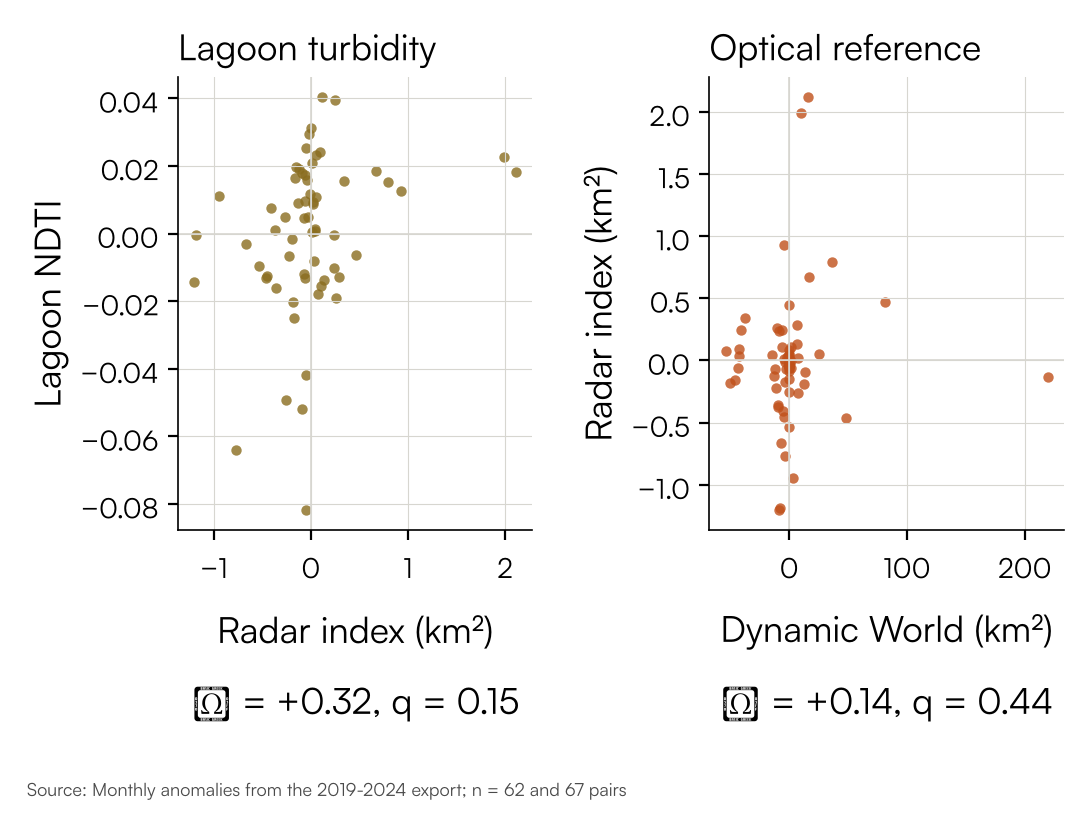
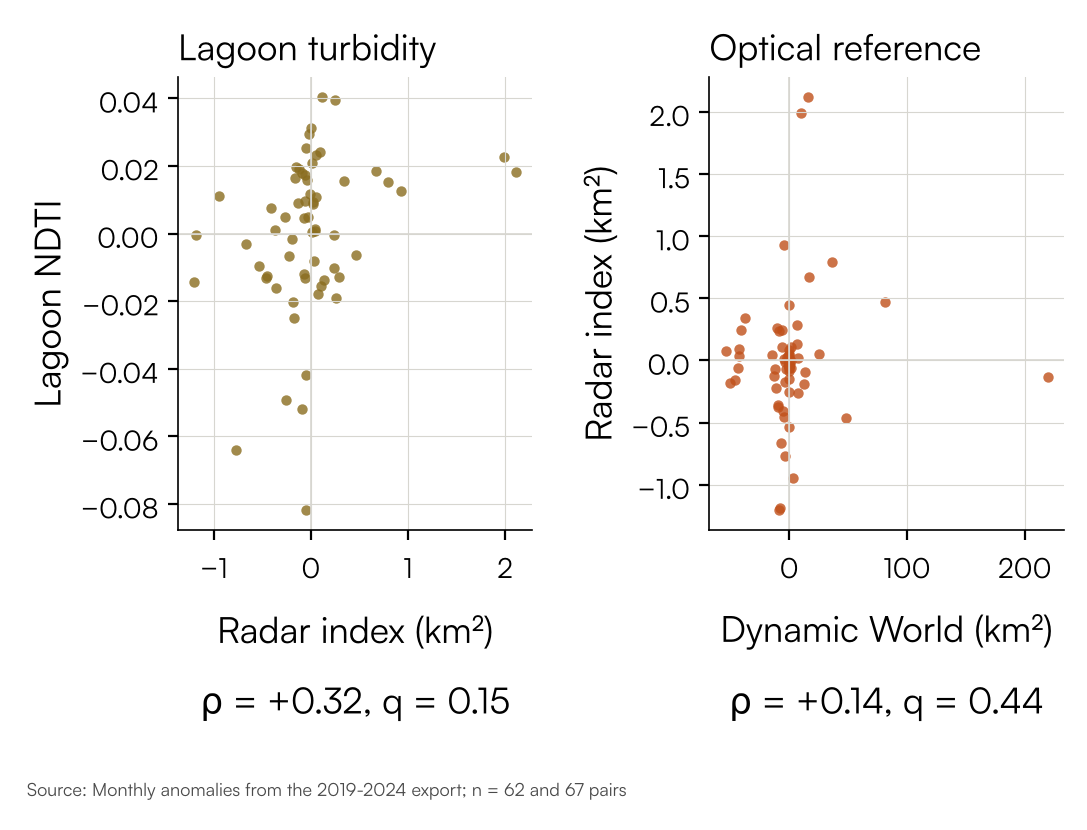
Remove static map figures, label maps by values, add scroll cue
Remove the seasonal and land-cover map figures from the page; the scripts
remain for later. Study maps carry no labels inside the units and no grid;
values sit in panel titles. Renumber the flow diagram to Figure 6. Figure
files are named to match their numbers. Add a scroll cue under the title,
fix the Spearman rho glyph and enlarge association-figure text. Explorer
page shows its back link above the header.

Changed region(s): [[0.1518, 0.8133, 0.4857, 0.8735], [0.6679, 0.8133, 0.9715, 0.8735]]

diff --git a/scripts/page_template.html b/scripts/page_template.html
@@ -41,6 +41,7 @@
 <main class="article" id="top">
     <header class="title">
         <h1>Surface water from headwaters to lagoon: rainfall, soil moisture and flooding</h1>
+        <a class="scroll-cue" href="#abstract" aria-label="Scroll to the abstract"><span>Scroll</span><svg width="16" height="16" viewBox="0 0 16 16" aria-hidden="true"><path d="M3 6l5 5 5-5" fill="none" stroke="currentColor" stroke-width="1.6" stroke-linecap="round" stroke-linejoin="round"/></svg></a>
         <p class="subtitle">Rainfall, soil moisture and radar flooding, 2019–2024</p>
     </header>
 
@@ -199,21 +200,11 @@
         <figcaption><b>Figure 5.</b> Monthly anomalies. Left: radar inundation against lagoon turbidity. Right: radar inundation against the Dynamic World flooding reference. Each point is one month with both values.</figcaption>
     </figure>
 
-        <p>Figure 6 maps the wet- and dry-season means for each unit. The colour scale is shared by the two seasons within each variable, so the panels can be compared directly.</p>
-        <figure class="wide reveal" id="fig-seasonal">
-        <picture><source media="(max-width: 760px)" srcset="assets/figures/study_seasonal_maps_phone.png"><img src="assets/figures/study_seasonal_maps.png" width="1867" height="1446" loading="lazy" alt="Six maps of the five units: wet-season and dry-season means of rainfall, soil moisture and Dynamic World water"></picture>
-        <figcaption><b>Figure 6.</b> Wet-season (April–October) and dry-season (November–March) means by unit, 2019–2024, for rainfall, soil moisture and Dynamic World water. Each map has its own colour scale. Z5 is the lagoon zone, outside the catchment (dashed); grey means no valid value. Source: seasonal means of the unit values in docs/data/unit_summary.json.</figcaption>
-    </figure>
-
-        <p>Figure 7 maps two land-cover shares per unit. Built-up surfaces shed more rain as runoff than vegetated ground, and cropland is where land use has changed. Both are shares of each unit’s area from the 2021 land-cover map.</p>
-        <figure class="wide reveal" id="fig-landcover">
-        <picture><source media="(max-width: 760px)" srcset="assets/figures/study_landcover_maps_phone.png"><img src="assets/figures/study_landcover_maps.png" width="1541" height="1051" loading="lazy" alt="Two maps of the units: built-up share and cropland share of each unit’s area, 2021"></picture>
-        <figcaption><b>Figure 7.</b> Built-up and cropland shares of each unit’s area, from ESA WorldCover 2021. Z5 is the lagoon zone, outside the catchment, and is not included.</figcaption>
-    </figure>
-
+        
+        
     <section id="sw-gw" aria-labelledby="h-swgw">
         <h2 id="h-swgw"><span class="sec-no">5</span> Surface water–groundwater interaction</h2>
-        <p>Figure 8 shows the four links the study measures or models, from rainfall to lagoon turbidity. Arrows give the order of the chain. They are not tested water transfers.</p>
+        <p>Figure 6 shows the four links the study measures or models, from rainfall to lagoon turbidity. Arrows give the order of the chain. They are not tested water transfers.</p>
         <figure class="wide reveal flow-figure" id="fig-flow">
         <ol class="flowdiag" aria-label="Measured and modelled links from rainfall to lagoon turbidity">
             <li class="node measured"><strong>Rainfall</strong><span>CHIRPS, satellite estimate adjusted with gauge data</span><span class="flow-to">Rainfall to soil moisture →</span></li>
@@ -222,7 +213,7 @@
             <li class="node measured"><strong>Lagoon</strong><span>Turbidity index (satellite, uncalibrated)</span><span class="flow-to">Outlet of the catchment</span></li>
         </ol>
         <p class="flow-key"><span class="key-item"><span class="key-sw measured" aria-hidden="true"></span>Measured (satellite)</span><span class="key-item"><span class="key-sw modelled" aria-hidden="true"></span>Modelled</span></p>
-            <figcaption><b>Figure 8.</b> The four measured and modelled links in the chain, from rainfall to lagoon turbidity.</figcaption>
+            <figcaption><b>Figure 6.</b> The four measured and modelled links in the chain, from rainfall to lagoon turbidity.</figcaption>
         </figure>
         <p>Table 3 compares wet and dry seasons for the units where the data can be read. Soil moisture is higher in the wet season in every unit. Dynamic World water is much higher in the dry season in every unit, including the floodplain units Z3 and Z4. In Z2 it averages {Z2_DW_DRY} km² in the dry season and {Z2_DW_WET} km² in the wet season; in Z1, {Z1_DW_DRY} km² and {Z1_DW_WET} km². Permanent water is masked out of the Dynamic World series, so it is unlikely to explain this contrast. Possible explanations include few usable wet-season images and dry-season misclassification. The study cannot separate them, so Dynamic World does not show wet-season flooding here.</p>
         <figure class="tablefig table-units" id="tab-3">

diff --git a/docs/index.html b/docs/index.html
@@ -41,6 +41,7 @@
 <main class="article" id="top">
     <header class="title">
         <h1>Surface water from headwaters to lagoon: rainfall, soil moisture and flooding</h1>
+        <a class="scroll-cue" href="#abstract" aria-label="Scroll to the abstract"><span>Scroll</span><svg width="16" height="16" viewBox="0 0 16 16" aria-hidden="true"><path d="M3 6l5 5 5-5" fill="none" stroke="currentColor" stroke-width="1.6" stroke-linecap="round" stroke-linejoin="round"/></svg></a>
         <p class="subtitle">Rainfall, soil moisture and radar flooding, 2019–2024</p>
     </header>
 
@@ -203,21 +204,11 @@
         <figcaption><b>Figure 5.</b> Monthly anomalies. Left: radar inundation against lagoon turbidity. Right: radar inundation against the Dynamic World flooding reference. Each point is one month with both values.</figcaption>
     </figure>
 
-        <p>Figure 6 maps the wet- and dry-season means for each unit. The colour scale is shared by the two seasons within each variable, so the panels can be compared directly.</p>
-        <figure class="wide reveal" id="fig-seasonal">
-        <picture><source media="(max-width: 760px)" srcset="assets/figures/study_seasonal_maps_phone.png"><img src="assets/figures/study_seasonal_maps.png" width="1285" height="1605" loading="lazy" alt="Six maps of the five units: wet-season and dry-season means of rainfall, soil moisture and Dynamic World water"></picture>
-        <figcaption><b>Figure 6.</b> Wet-season (April–October) and dry-season (November–March) means by unit, 2019–2024, for rainfall, soil moisture and Dynamic World water. Each map has its own colour scale. Z5 is the lagoon zone, outside the catchment (dashed); grey means no valid value. Source: seasonal means of the unit values in docs/data/unit_summary.json.</figcaption>
-    </figure>
-
-        <p>Figure 7 maps two land-cover shares per unit. Built-up surfaces shed more rain as runoff than vegetated ground, and cropland is where land use has changed. Both are shares of each unit’s area from the 2021 land-cover map.</p>
-        <figure class="wide reveal" id="fig-landcover">
-        <picture><source media="(max-width: 760px)" srcset="assets/figures/study_landcover_maps_phone.png"><img src="assets/figures/study_landcover_maps.png" width="1285" height="777" loading="lazy" alt="Two maps of the units: built-up share and cropland share of each unit’s area, 2021"></picture>
-        <figcaption><b>Figure 7.</b> Built-up and cropland shares of each unit’s area, from ESA WorldCover 2021. Z5 is the lagoon zone, outside the catchment, and is not included.</figcaption>
-    </figure>
-
+        
+        
     <section id="sw-gw" aria-labelledby="h-swgw">
         <h2 id="h-swgw"><span class="sec-no">5</span> Surface water–groundwater interaction</h2>
-        <p>Figure 8 shows the four links the study measures or models, from rainfall to lagoon turbidity. Arrows give the order of the chain. They are not tested water transfers.</p>
+        <p>Figure 6 shows the four links the study measures or models, from rainfall to lagoon turbidity. Arrows give the order of the chain. They are not tested water transfers.</p>
         <figure class="wide reveal flow-figure" id="fig-flow">
         <ol class="flowdiag" aria-label="Measured and modelled links from rainfall to lagoon turbidity">
             <li class="node measured"><strong>Rainfall</strong><span>CHIRPS, satellite estimate adjusted with gauge data</span><span class="flow-to">Rainfall to soil moisture →</span></li>
@@ -226,7 +217,7 @@
             <li class="node measured"><strong>Lagoon</strong><span>Turbidity index (satellite, uncalibrated)</span><span class="flow-to">Outlet of the catchment</span></li>
         </ol>
         <p class="flow-key"><span class="key-item"><span class="key-sw measured" aria-hidden="true"></span>Measured (satellite)</span><span class="key-item"><span class="key-sw modelled" aria-hidden="true"></span>Modelled</span></p>
-            <figcaption><b>Figure 8.</b> The four measured and modelled links in the chain, from rainfall to lagoon turbidity.</figcaption>
+            <figcaption><b>Figure 6.</b> The four measured and modelled links in the chain, from rainfall to lagoon turbidity.</figcaption>
         </figure>
         <p>Table 3 compares wet and dry seasons for the units where the data can be read. Soil moisture is higher in the wet season in every unit. Dynamic World water is much higher in the dry season in every unit, including the floodplain units Z3 and Z4. In Z2 it averages 107.7 km² in the dry season and 2.3 km² in the wet season; in Z1, 55.3 km² and 5.1 km². Permanent water is masked out of the Dynamic World series, so it is unlikely to explain this contrast. Possible explanations include few usable wet-season images and dry-season misclassification. The study cannot separate them, so Dynamic World does not show wet-season flooding here.</p>
         <figure class="tablefig table-units" id="tab-3">

diff --git a/docs/assets/study-map.js b/docs/assets/study-map.js
@@ -147,7 +147,7 @@
             <li><span class="zbadge">Z2</span>Oyan–Ofiki tributary</li>
             <li><span class="zbadge">Z3</span>Middle Ogun mainstem</li>
             <li><span class="zbadge">Z4</span>Lower Ogun alluvial corridor</li>
-            <li><span class="zbadge dashed">Z5</span>Lagos Lagoon zone, outside the catchment (dashed outline)</li></ul></div>`;
+            <li><span class="zbadge dashed">Z5</span>Lagoon zone, outside the catchment (dashed outline)</li></ul></div>`;
     }
 
     function landcoverBlock() {
@@ -215,7 +215,7 @@
             const dark = lum(fill) < 0.55 && ctxLandOn() === false;
             const tt = L.tooltip({ permanent: true, direction: id === 'Z5' ? 'right' : 'center', offset: id === 'Z5' ? [10, 0] : [0, 0], className: 'unit-label' + (id === 'Z5' ? ' z5' : '') + (dark ? ' on-dark' : ''), interactive: false })
                 .setLatLng([pt[1], pt[0]]).setContent(id);
-            tt.addTo(map); labelLayers.push(tt);
+            // unit names are not written on the map: the key and the hover popups identify each unit
         });
         map.fitBounds(layer.getBounds(), { padding: mapPad() });
         if (!titleCtl) {

diff --git a/docs/assets/study.css b/docs/assets/study.css
@@ -344,3 +344,9 @@ img, svg { height: auto; }
 .map-btn, #copy-cite, .btn-quiet, .band-play, .preview-pause, .react, .fb-btn { display: inline-flex; align-items: center; }
 /* Header navigation: the section in view */
 .toc a.is-current { background: #eef4fd; color: #1d4f85; border-radius: 10px; }
+/* Scroll cue under the title: a gentle bob, hidden once the reader has scrolled */
+.scroll-cue { display: inline-flex; align-items: center; gap: 8px; margin-top: 18px; font-size: 14px; color: #1d4f85; text-decoration: none; transition: opacity 0.4s ease; }
+.scroll-cue svg { animation: cue-bob 1.6s ease-in-out infinite; }
+.scroll-cue.is-hidden { opacity: 0; pointer-events: none; }
+@keyframes cue-bob { 0%, 100% { transform: translateY(0); } 50% { transform: translateY(4px); } }
+@media (prefers-reduced-motion: reduce) { .scroll-cue svg { animation: none; } .scroll-cue { transition: none; } }

diff --git a/docs/assets/study-motion.js b/docs/assets/study-motion.js
@@ -46,3 +46,13 @@
     }), { threshold: 0.12 });
     document.querySelectorAll('[data-reveal]').forEach(el => io.observe(el));
 })();
+
+/* Scroll cue: hide it once the reader has scrolled past the title */
+(() => {
+    'use strict';
+    const cue = document.querySelector('.scroll-cue');
+    if (!cue) return;
+    const hide = () => { if (scrollY > 80) { cue.classList.add('is-hidden'); removeEventListener('scroll', hide); } };
+    addEventListener('scroll', hide, { passive: true });
+    hide();
+})();

diff --git a/scripts/make_figures.py b/scripts/make_figures.py
@@ -34,7 +34,7 @@ _FONT_DIR = Path.home() / ".cache" / "ogun-fonts"  # Satoshi TTF from Fontshare,
 for _f in _FONT_DIR.glob("Satoshi-*.ttf"):
     _fm.fontManager.addfont(str(_f))
 _FAMILY = "Satoshi" if any(f.name == "Satoshi" for f in _fm.fontManager.ttflist) else "DejaVu Sans"
-plt.rcParams.update({"font.family": _FAMILY, "font.size": 10.5, "axes.linewidth": 0.6,
+plt.rcParams.update({"font.family": [_FAMILY, "DejaVu Sans"], "font.size": 10.5, "axes.linewidth": 0.6,
                      "axes.spines.top": False, "axes.spines.right": False})
 C_RAIN, C_SOIL, C_SAR, C_DW, C_NDTI = "#2d6cb0", "#3c8d6e", "#c0501a", "#7a5aa6", "#8a6d1f"
 
@@ -81,7 +81,7 @@ def fig3_association(diag):
                        ("Rain → inundation, one month later", "Rain -> floodplain SAR inundation (1-month lag, deseasonalized)"),
                        ("Soil moisture → inundation, same month", "Soil moisture -> floodplain SAR inundation (same month, deseasonalized)")):
         rows.append((label, "anomaly", fam[key]["spearman_rho"], fam[key]["p_value"]))
-    fig, ax = plt.subplots(figsize=(5.0, 4.8), dpi=200)
+    fig, ax = plt.subplots(figsize=(5.4, 5.0), dpi=200)
     y = np.arange(len(rows))[::-1]
     for yi, (lab, kind, rho, q) in zip(y, rows):
         colour = C_RAIN if q < 0.05 else "#9a9a9a"
@@ -95,7 +95,7 @@ def fig3_association(diag):
     ax.set_xlabel("Spearman ρ (recommended estimator)", fontsize=13)
     ax.grid(axis="x", color=RULE, lw=0.4)
     fig.subplots_adjust(left=0.56, right=0.97, bottom=0.2, top=0.97)
-    _source(fig, "cascade_diagnostics.json. Hollow: raw values; filled: anomalies. Blue: q < 0.05; grey: not significant")
+    _source(fig, "cascade_diagnostics.json. Hollow: raw values; filled: anomalies. Blue: q < 0.05; grey: not significant", size=8.5)
     return fig
 
 
@@ -185,11 +185,6 @@ def _carto(ax, bounds, bar=False, north=False, ticks=True, scale_km=20, step_km=
         ax.tick_params(length=2.5, width=0.5, colors="#222", pad=2)
         ax.set_xlabel("Easting, km (UTM 31N)", fontsize=fs + 0.5, color="#222", labelpad=2)
         ax.set_ylabel("Northing, km", fontsize=fs + 0.5, color="#222", labelpad=2)
-        # graticule drawn above the unit shading so it is visible: dotted lines at every tick
-        for x_ in xt:
-            ax.plot([x_, x_], [s_, n], color="#333333", lw=0.5, ls=(0, (1.5, 2)), alpha=0.7, zorder=4)
-        for y_ in yt:
-            ax.plot([w, e], [y_, y_], color="#333333", lw=0.5, ls=(0, (1.5, 2)), alpha=0.7, zorder=4)
     else:
         ax.set_xticks([]); ax.set_yticks([])
     halo = [pe.withStroke(linewidth=2, foreground="white")]
@@ -198,10 +193,9 @@ def _carto(ax, bounds, bar=False, north=False, ticks=True, scale_km=20, step_km=
         x0, y0 = w + 0.06 * (e - w), (n - 0.09 * (n - s_)) if bar_pos == "top" else (s_ + 0.06 * (n - s_))
         ax.add_patch(Rectangle((x0, y0), L / 2, h, fc="#111", ec="#111", lw=0.5, zorder=8))
         ax.add_patch(Rectangle((x0 + L / 2, y0), L / 2, h, fc="#fff", ec="#111", lw=0.5, zorder=8))
-        ax.text(x0, y0 + 1.6 * h, "0", ha="center", va="bottom", fontsize=fs, color="#111", zorder=9, path_effects=halo)
-        if fs >= 6:
-            ax.text(x0 + L / 2, y0 + 1.6 * h, f"{scale_km // 2}", ha="center", va="bottom", fontsize=fs, color="#111", zorder=9, path_effects=halo)
-        ax.text(x0 + L + 0.015 * (e - w), y0 + 1.6 * h, f"{scale_km} km", ha="left", va="bottom", fontsize=fs, color="#111", zorder=9, path_effects=halo)
+        ax.text(x0, y0 - 1.2 * h, "0", ha="center", va="top", fontsize=fs, color="#111", zorder=9, path_effects=halo)
+
+        ax.text(x0 + L + 0.015 * (e - w), y0 - 1.2 * h, f"{scale_km} km", ha="left", va="top", fontsize=fs, color="#111", zorder=9, path_effects=halo)
     if north:
         ww = 0.018 * (e - w); H = 0.075 * (n - s_)
         x = e - 0.07 * (e - w); top = n - 0.09 * (n - s_); base = top - H
@@ -221,6 +215,16 @@ def _unit_key(fig, y=0.005, ncol=5, fs=5.5):
 def _panel_letters(axes):
     for k, ax in enumerate(axes):
         ax.text(0.02, 0.97, f"({chr(97 + k)})", transform=ax.transAxes, ha="left", va="top", fontsize=7, fontweight="bold", color="#111", zorder=12)
+
+
+def _panel_title(ax, letter, head, vals, dec, fs=7.5):
+    """Panel title above the frame: letter and heading, then the unit values in order Z1 to Z5. Nothing is written
+    inside the map. vals maps zone to value (None = no value)."""
+    parts = []
+    for z in ("Z1", "Z2", "Z3", "Z4", "Z5"):
+        v = vals.get(z)
+        parts.append(f"{z} {v:.{dec}f}" if v is not None else f"{z} no value")
+    ax.set_title(f"({letter}) {head}\n" + "  ".join(parts), fontsize=fs, loc="left", color="#111", pad=4, linespacing=1.5)
 
 
 def _label(ax, z, c, txt, x_out, fs=8):
@@ -257,11 +261,7 @@ def fig_study_map_print():
         t = (rain[z] - lo) / max(hi - lo, 1e-9)
         ax.add_patch(MPoly(ring, closed=True, facecolor=cmap(0.25 + 0.6 * t), alpha=0.6, edgecolor=role[z], lw=1.2, zorder=3,
                            linestyle="--" if z == "Z5" else "-"))
-        c = ring.mean(axis=0)
-        if z == "Z5":
-            _label(ax, z, c, z, ring[:, 0].max() + 0.12 * (bounds[1] - bounds[0]), fs=8)
-        else:
-            ax.text(c[0], c[1], z, ha="center", va="center", fontsize=8, fontweight="bold", zorder=4, color="#111", path_effects=[pe_halo()])
+        pass
     _carto(ax, bounds, bar=True, north=True, ticks=True, scale_km=20, step_km=20, fs=6)
     sm = plt.cm.ScalarMappable(cmap=cmap, norm=plt.Normalize(lo, hi))
     cb = fig.colorbar(sm, ax=ax, fraction=0.05, pad=0.03, shrink=0.55)
@@ -294,8 +294,8 @@ def fig_seasonal_maps():
     rings = _utm_rings(gj)
     bounds = _utm_bounds(rings)
     x_out = max(r[:, 0].max() for _, r in rings) + 0.08 * (bounds[1] - bounds[0])
-    fig, axes = plt.subplots(3, 2, figsize=(5.8, 8.6), dpi=220)
-    fig.subplots_adjust(left=0.13, right=0.84, top=0.91, bottom=0.13, wspace=0.07, hspace=0.1)
+    fig, axes = plt.subplots(3, 2, figsize=(6.0, 9.4), dpi=220)
+    fig.subplots_adjust(left=0.13, right=0.84, top=0.93, bottom=0.11, wspace=0.07, hspace=0.36)
     for r, (var, row_label, cmap_name, cb_label) in enumerate(rows):
         vals = [seas[z][var][k] for z in seas for k, _ in cols if seas[z].get(var, {}).get(k) is not None]
         lo, hi = min(vals), max(vals)
@@ -307,15 +307,13 @@ def fig_seasonal_maps():
                 v = seas[z].get(var, {}).get(key)
                 fc = cmap(0.15 + 0.75 * norm(v)) if v is not None else "#d9d9d3"
                 ax.add_patch(MPoly(ring, closed=True, facecolor=fc, edgecolor="#1a1a1a", lw=1.1, linestyle="--" if z == "Z5" else "-", zorder=3))
-                cen = ring.mean(axis=0)
-                txt = z if v is None else (f"{z}  {v:.{dec}f}" if z in ("Z3", "Z4", "Z5") else f"{z}\n{v:.{dec}f}")
-                _label(ax, z, cen, txt, x_out, fs=7.5)
+                pass
             _carto(ax, bounds, bar=(r == 2 and c_ == 0), north=(r == 0 and c_ == 0), ticks=True, scale_km=20, step_km=40, fs=6, bar_pos="bottom")
             ax.set_xlim(bounds[0], x_out + 0.6 * (bounds[1] - bounds[0]))
             if c_ != 0: ax.set_yticklabels([]); ax.set_ylabel("")
             if r != 2: ax.set_xticklabels([]); ax.set_xlabel("")
-            ax.text(0.03, 0.97, f"({chr(97 + 2 * r + c_)})", transform=ax.transAxes, ha="left", va="top", fontsize=7, fontweight="bold", color="#111", zorder=12)
-            if r == 0: ax.set_title(col_label, fontsize=7.5, color="#111", pad=4)
+            vals_here = {z: seas[z].get(var, {}).get(key) for z in seas}
+            _panel_title(ax, chr(97 + 2 * r + c_), col_label, vals_here, dec, fs=7.5)
             if c_ == 0: ax.set_ylabel(row_label, fontsize=7.5, color="#111", labelpad=4)
         pos = axes[r][1].get_position()
         cax = fig.add_axes([pos.x1 + 0.025, pos.y0, 0.018, pos.height])
@@ -344,12 +342,10 @@ def fig_unit_landcover_maps():
             v = vals.get(z)
             fc = cmap(0.1 + 0.75 * norm(v)) if v is not None else "#e9e9e4"
             ax.add_patch(MPoly(ring, closed=True, facecolor=fc, edgecolor="#3d3d3d", lw=0.7, linestyle="--" if z == "Z5" else "-"))
-            c = ring.mean(axis=0)
-            txt = z if v is None else (f"{z}  {v:.1f}%" if z in ("Z3", "Z4", "Z5") else f"{z}\n{v:.1f}%")
-            _label(ax, z, c, txt, x_out, fs=7.5)
+            pass
         _carto(ax, bounds, bar=(k == 0), north=(k == 0), ticks=(k == 0), scale_km=20, step_km=40, fs=6, bar_pos="bottom")
         ax.set_xlim(bounds[0], x_out + 0.6 * (bounds[1] - bounds[0]))
-        ax.set_title(title, fontsize=7.5, loc="left", color="#111")
+        _panel_title(ax, "ab"[k], title.replace(" of unit area, %", ", % of unit area"), {z: vals.get(z) for z in ("Z1", "Z2", "Z3", "Z4", "Z5")}, 1, fs=7.5)
     fig.subplots_adjust(left=0.1, right=0.98, top=0.9, bottom=0.2, wspace=0.14)
     _panel_letters(axes)
     _unit_key(fig, y=0.02)
@@ -377,8 +373,8 @@ def _seasonal_phone():
     cols = [("wet_mean", "Wet season (April-October)"), ("dry_mean", "Dry season (November-March)")]
     rings = _utm_rings(gj); bounds = _utm_bounds(rings)
     x_out = max(r[:, 0].max() for _, r in rings) + 0.08 * (bounds[1] - bounds[0])
-    fig, axes = plt.subplots(6, 1, figsize=(3.9, 12.4), dpi=220)
-    fig.subplots_adjust(left=0.2, right=0.8, top=0.97, bottom=0.1, hspace=0.22)
+    fig, axes = plt.subplots(6, 1, figsize=(3.9, 15.5), dpi=220)
+    fig.subplots_adjust(left=0.2, right=0.8, top=0.975, bottom=0.075, hspace=0.42)
     for r, (var, row_label, cmap_name, cb_label) in enumerate(rows):
         vals = [seas[z][var][k] for z in seas for k, _ in cols if seas[z].get(var, {}).get(k) is not None]
         lo, hi = min(vals), max(vals)
@@ -390,12 +386,10 @@ def _seasonal_phone():
                 v = seas[z].get(var, {}).get(key)
                 fc = cmap(0.15 + 0.75 * norm(v)) if v is not None else "#d9d9d3"
                 ax.add_patch(MPoly(ring, closed=True, facecolor=fc, edgecolor="#1a1a1a", lw=1.1, linestyle="--" if z == "Z5" else "-", zorder=3))
-                cen = ring.mean(axis=0)
-                txt = z if v is None else (f"{z}  {v:.{dec}f}" if z in ("Z3", "Z4", "Z5") else f"{z}\n{v:.{dec}f}")
-                _label(ax, z, cen, txt, x_out, fs=8)
+                pass
             _carto(ax, bounds, bar=(r == 0 and c_ == 0), north=(r == 0 and c_ == 0), ticks=(r == 2 and c_ == 1), scale_km=20, step_km=40, fs=6.5, bar_pos="bottom")
             ax.set_xlim(bounds[0], x_out + 0.6 * (bounds[1] - bounds[0]))
-            ax.set_title(f"({chr(97 + 2 * r + c_)}) {col_label}", fontsize=8, loc="left", color="#111", pad=3)
+            _panel_title(ax, chr(97 + 2 * r + c_), col_label, {z: seas[z].get(var, {}).get(key) for z in seas}, dec, fs=7.5)
             if not (r == 2 and c_ == 1):
                 ax.set_xticklabels([]); ax.set_yticklabels([]); ax.set_xlabel(""); ax.set_ylabel("")
         if r == 0 or True:
@@ -426,12 +420,10 @@ def _landcover_phone():
             v = vals.get(z)
             fc = cmap(0.1 + 0.75 * norm(v)) if v is not None else "#e9e9e4"
             ax.add_patch(MPoly(ring, closed=True, facecolor=fc, edgecolor="#1a1a1a", lw=1.1, linestyle="--" if z == "Z5" else "-", zorder=3))
-            c = ring.mean(axis=0)
-            txt = z if v is None else (f"{z}  {v:.1f}%" if z in ("Z3", "Z4", "Z5") else f"{z}\n{v:.1f}%")
-            _label(ax, z, c, txt, x_out, fs=8)
+            pass
         _carto(ax, bounds, bar=(k == 1), north=(k == 0), ticks=(k == 1), scale_km=20, step_km=40, fs=6.5, bar_pos="bottom")
         ax.set_xlim(bounds[0], x_out + 0.6 * (bounds[1] - bounds[0]))
-        ax.set_title(f"({chr(97 + k)}) {title}", fontsize=8, loc="left", color="#111", pad=3)
+        _panel_title(ax, chr(97 + k), title.replace(" of unit area, %", ", % of unit area"), {z: vals.get(z) for z in ("Z1", "Z2", "Z3", "Z4", "Z5")}, 1, fs=7.5)
         if k == 0:
             ax.set_xticklabels([]); ax.set_xlabel("")
     _unit_key(fig, y=0.003, ncol=2, fs=7)
